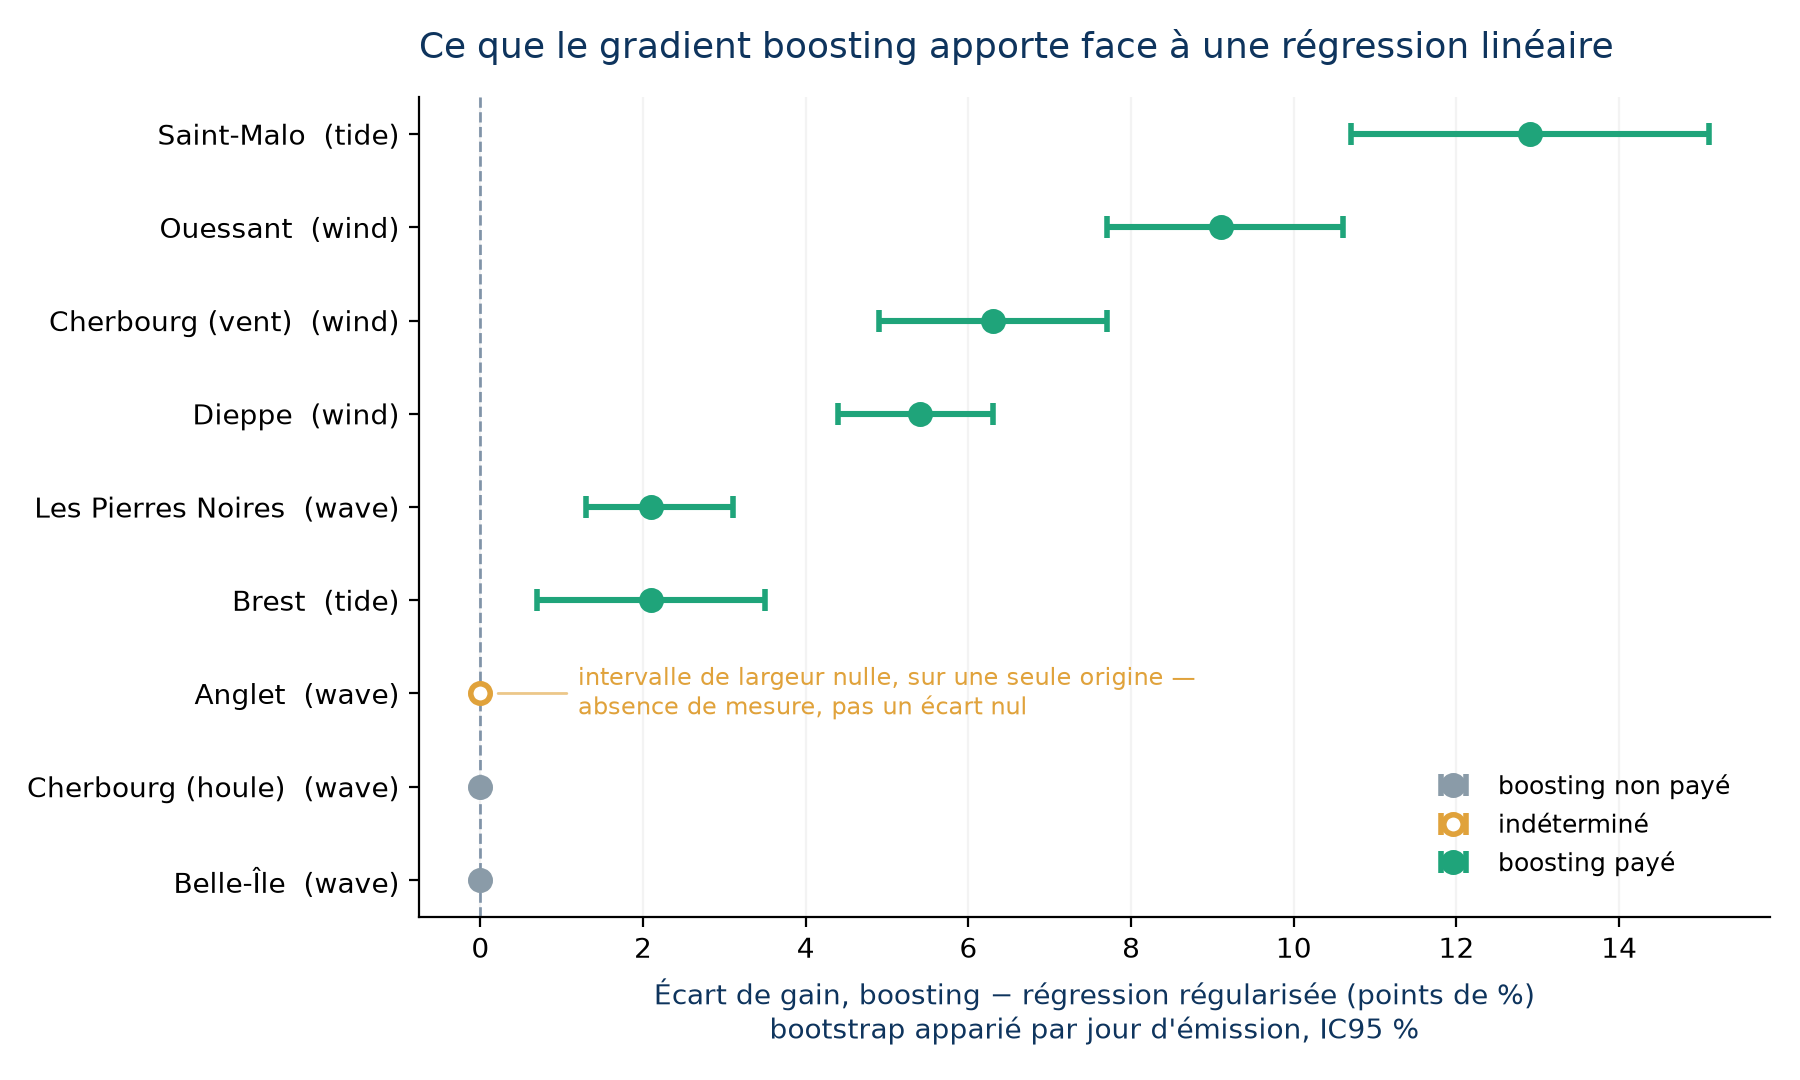
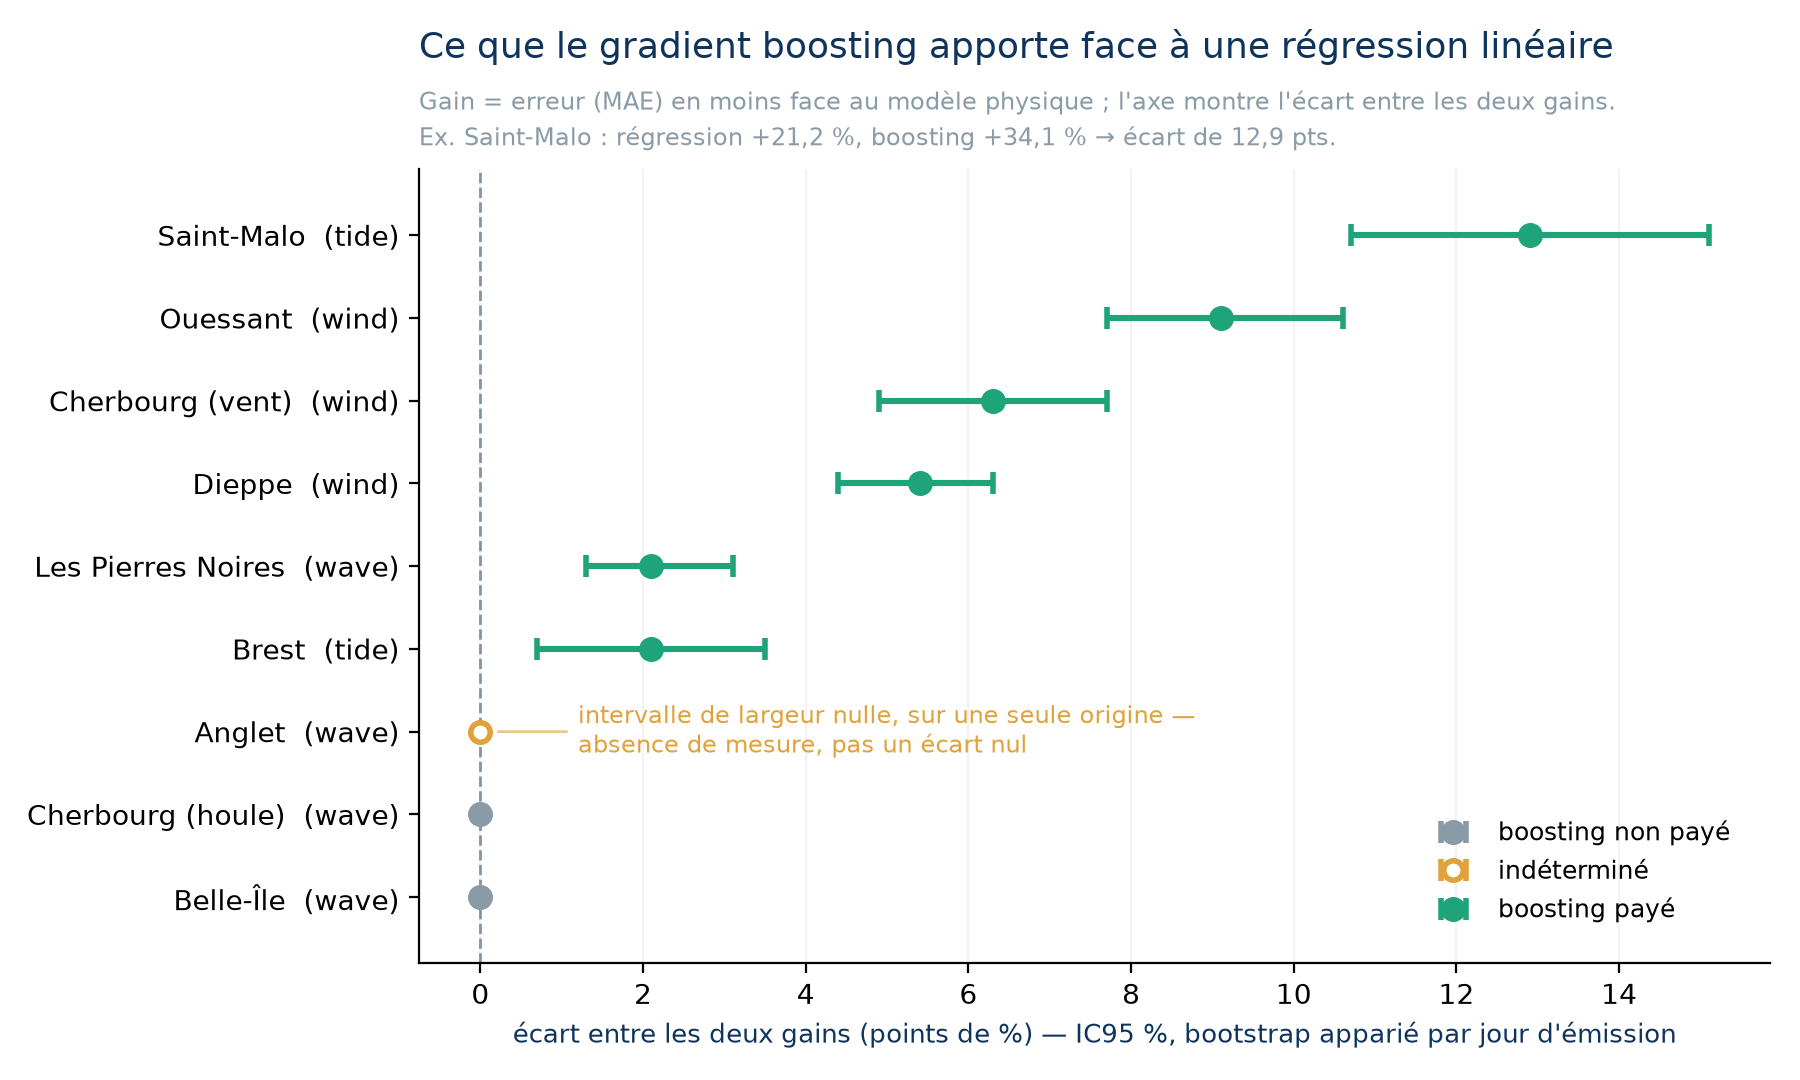
fix(editorial): la figure ne disait pas ce qu'elle mesurait en abscisse
L'axe portait « écart de gain (points de %) » sans que « gain » soit défini
nulle part, et la figure ne montre pas les gains eux-mêmes : « +12,9 » restait
sans ancrage. Sur LinkedIn l'image voyage sans le texte du post, elle doit se
lire seule. Le sous-titre donne donc la définition et un exemple chiffré
complet — Saint-Malo, +21,2 % contre +34,1 %, d'où l'écart de 12,9 pts.

Écarté au passage : une ligne « ← la régression fait mieux | 0 | le boosting
fait mieux → » sous l'axe. Elle plaçait un zéro typographique au centre alors
que le vrai zéro est à l'extrême gauche — toutes les valeurs sont positives.
Un faux repère centré vaut moins que pas de repère, et la légende porte déjà
le sens de lecture.

diff --git a/pipeline/scripts/figure_ridge_deltas.py b/pipeline/scripts/figure_ridge_deltas.py
@@ -111,18 +111,36 @@ def main() -> int:
         [f"{LABELS[r['id']]}  ({r['kind']})" for r in rows], fontsize=10
     )
     ax.set_xlabel(
-        "Écart de gain, boosting − régression régularisée (points de %)\n"
-        "bootstrap apparié par jour d'émission, IC95 %",
-        fontsize=10,
+        "écart entre les deux gains (points de %) — IC95 %, "
+        "bootstrap apparié par jour d'émission",
+        fontsize=9.5,
         color=NAVY,
     )
     ax.set_title(
         "Ce que le gradient boosting apporte face à une régression linéaire",
         fontsize=13,
         color=NAVY,
-        pad=14,
+        pad=40,
         loc="left",
     )
+    # Sans ça, « +12,9 » n'a pas d'ancrage : la figure ne montre pas les gains.
+    # Le sens de lecture, lui, est déjà porté par la légende — ne pas le répéter.
+    for i, line in enumerate(
+        [
+            "Gain = erreur (MAE) en moins face au modèle physique ; l'axe montre "
+            "l'écart entre les deux gains.",
+            "Ex. Saint-Malo : régression +21,2 %, boosting +34,1 % → écart de 12,9 pts.",
+        ]
+    ):
+        ax.text(
+            0,
+            1.075 - 0.045 * i,
+            line,
+            transform=ax.transAxes,
+            fontsize=8.5,
+            color=GREY,
+        )
+    ax.set_ylim(-0.8, len(rows) - 0.2)
     # Note accrochée au point d'anglet : c'est lui qu'elle qualifie.
     anglet_y = next(i for i, r in enumerate(rows) if r["id"] == "anglet")
     ax.annotate(
